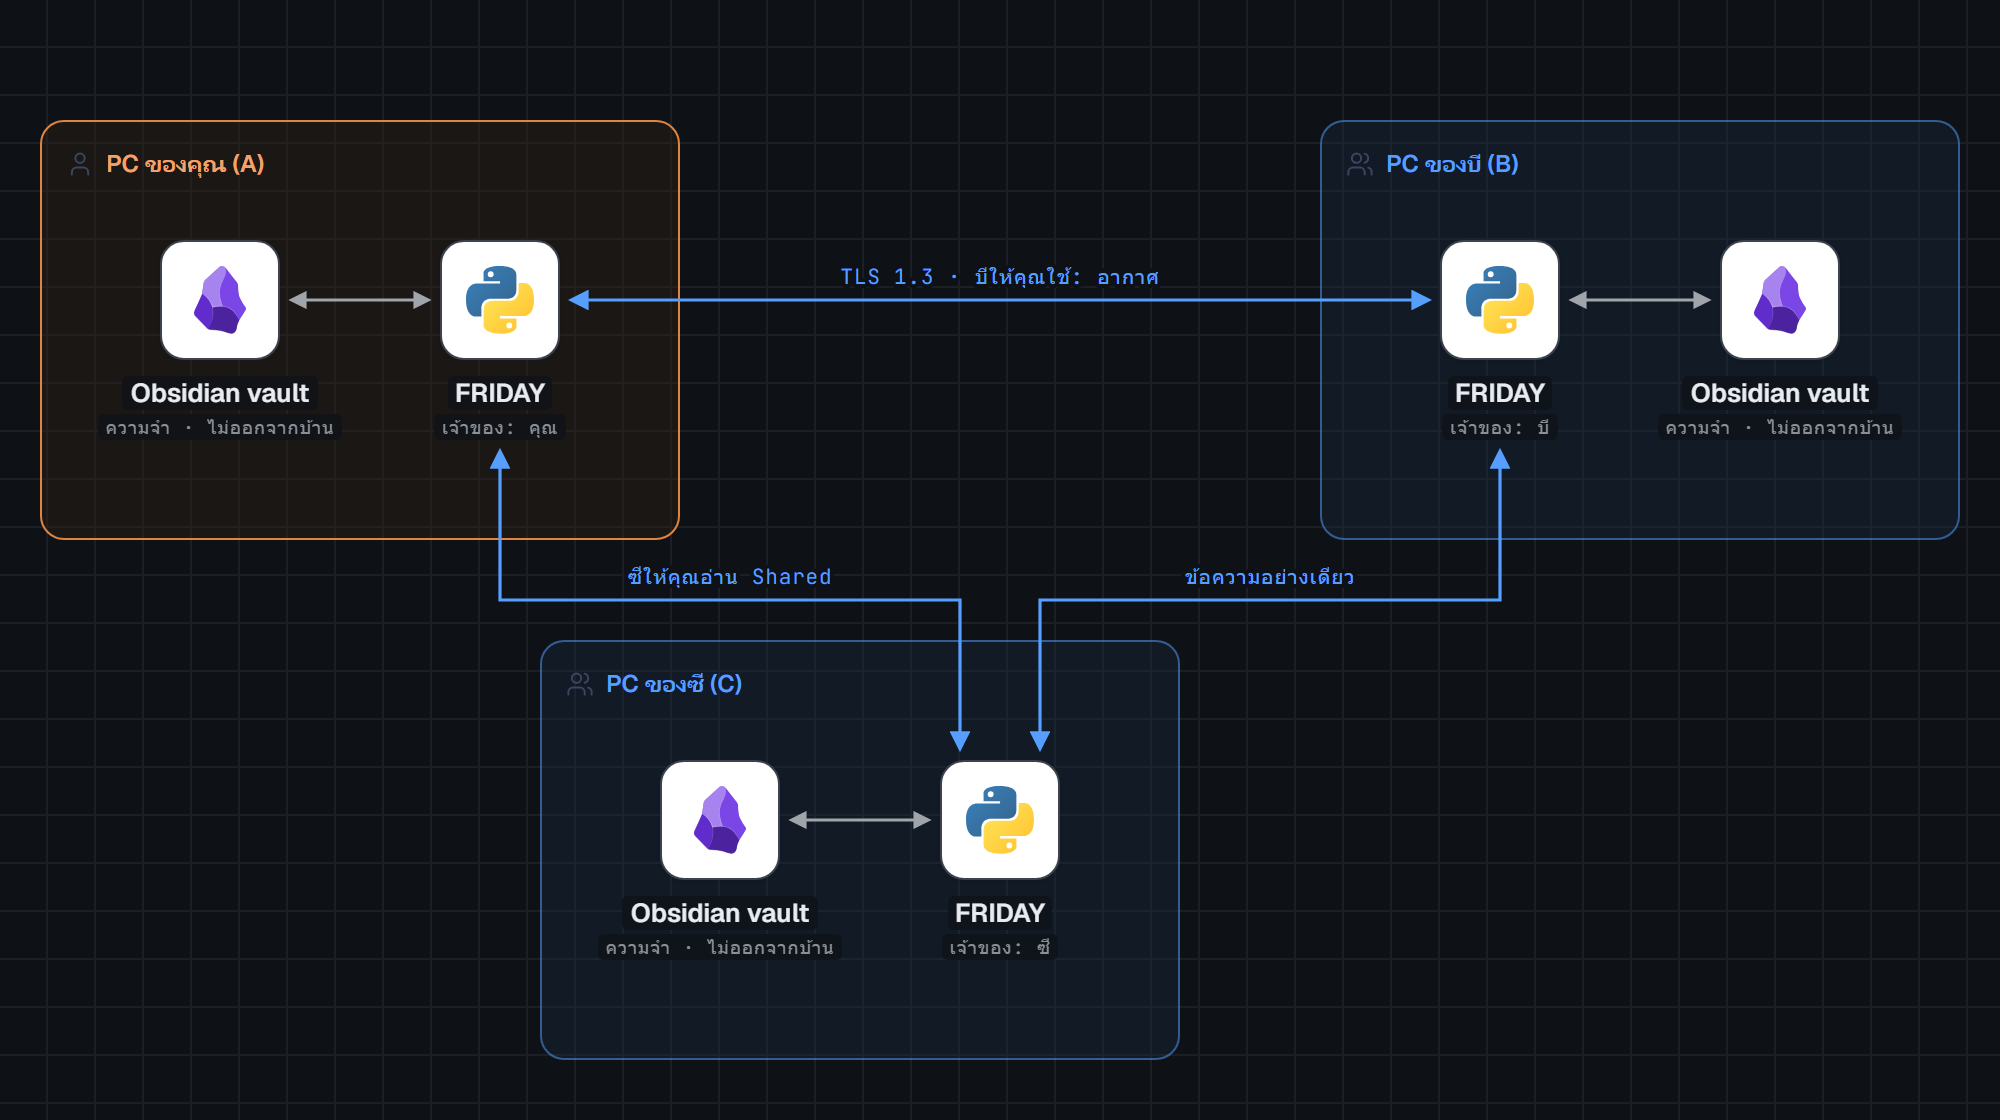
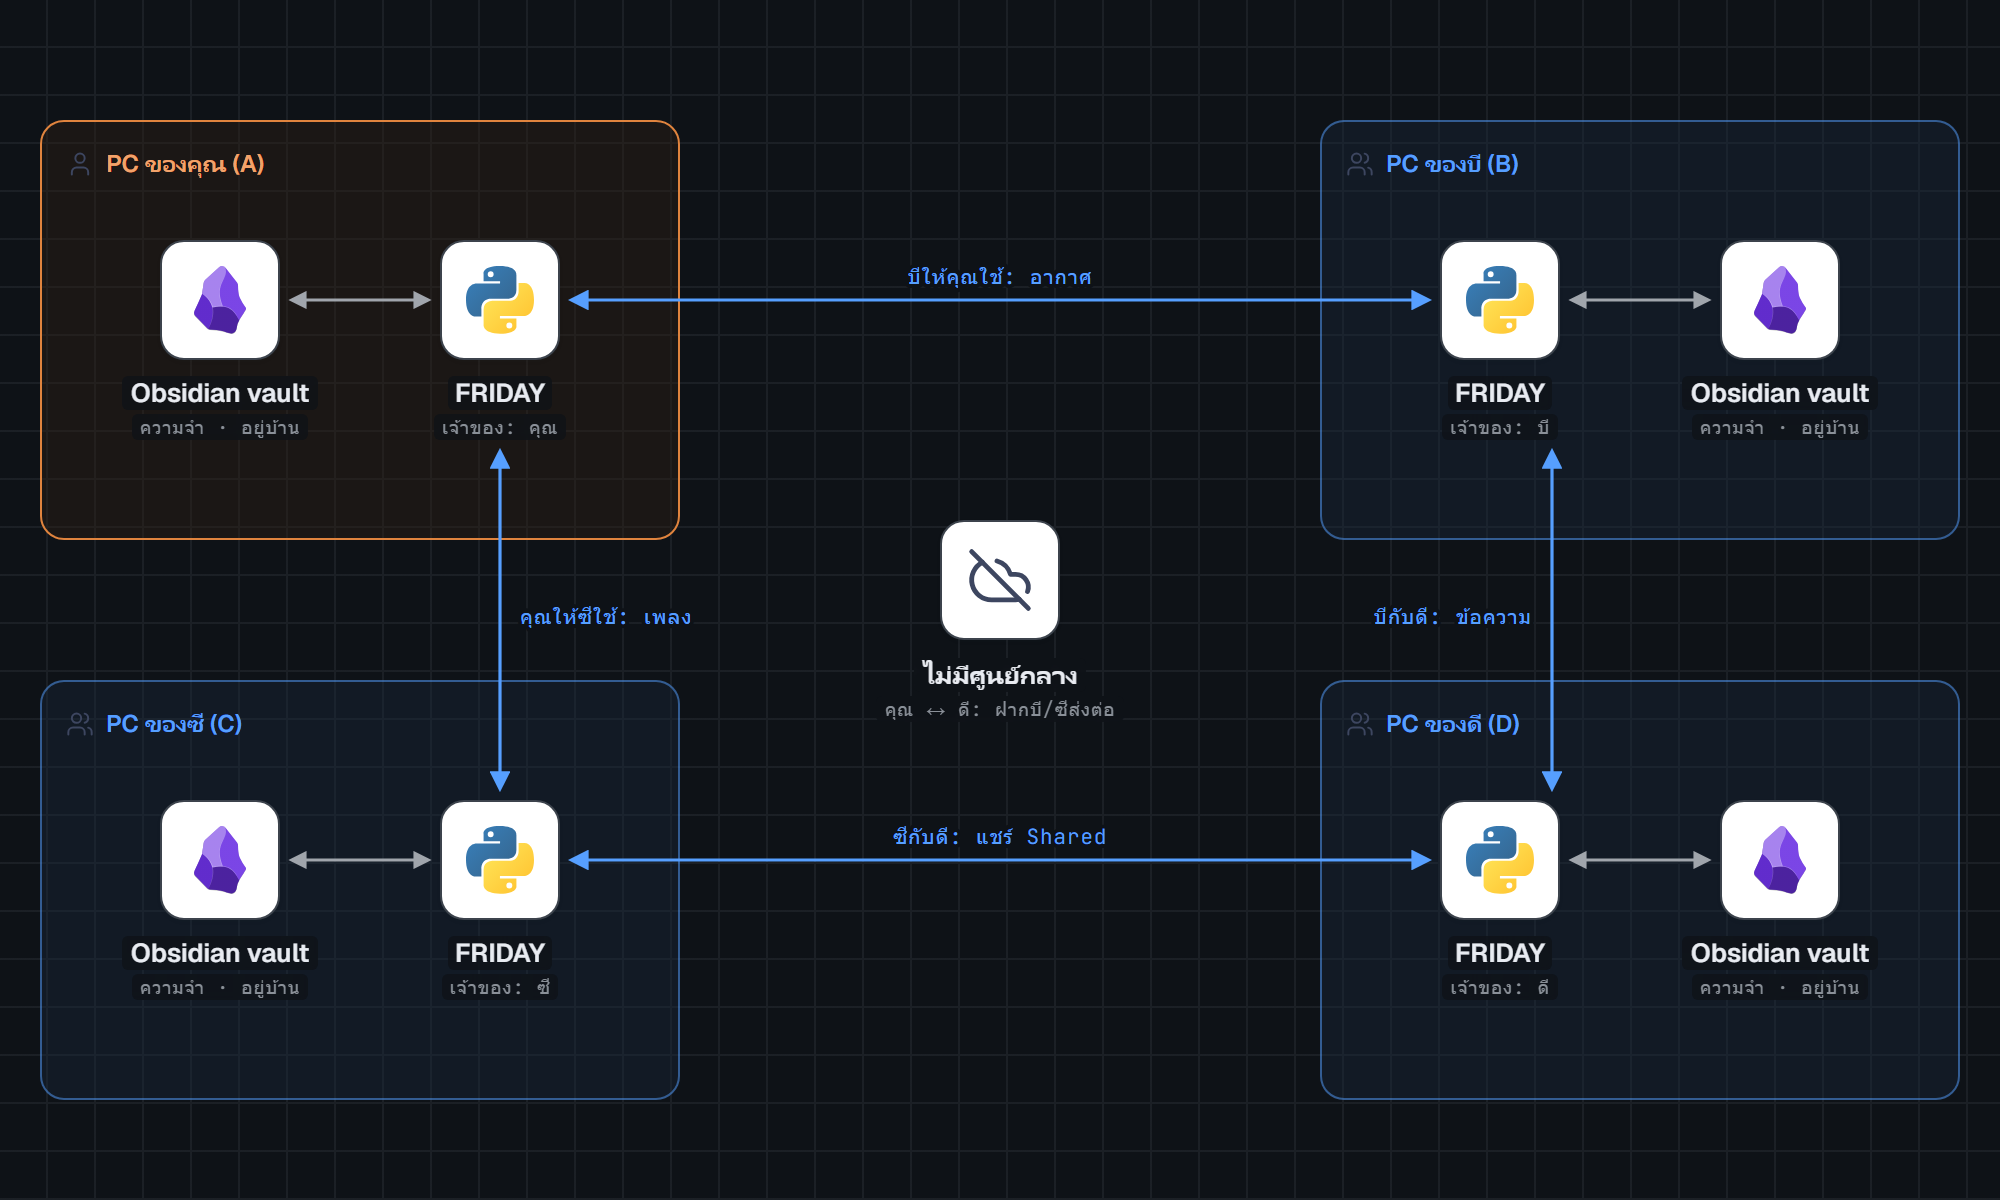
README: a new Friend FRIDAY network diagram — four PCs in a ring, every line one pairing with its own rights, no hub in the middle, and two friends who never paired reaching each other by passing on through a friend (§121)

diff --git a/README.md b/README.md
@@ -464,7 +464,7 @@ sequenceDiagram
 
 <picture>
   <source media="(prefers-color-scheme: dark)" srcset="assets/diagrams/peer-dark.png">
-  <img src="assets/diagrams/peer.png" alt="เครือข่ายเพื่อน FRIDAY: คอม A B C แต่ละเครื่องมี FRIDAY และความจำ Obsidian ของตัวเอง · แต่ละคู่จับคู่กันเองผ่าน TLS 1.3 · สิทธิ์แยกตามเพื่อน" width="100%">
+  <img src="assets/diagrams/peer.png" alt="เครือข่ายเพื่อน FRIDAY: คอม 4 เครื่อง (คุณ บี ซี ดี) ต่อกันเป็นวง แต่ละเครื่องมี FRIDAY และความจำ Obsidian ของตัวเอง · เส้นหนึ่งเส้น = จับคู่หนึ่งครั้งพร้อมสิทธิ์ของเส้นนั้น · ไม่มีศูนย์กลาง · คุณกับดีไม่ได้จับคู่ แต่ฝากบีหรือซีส่งต่อได้" width="100%">
 </picture>
 
 <picture>
